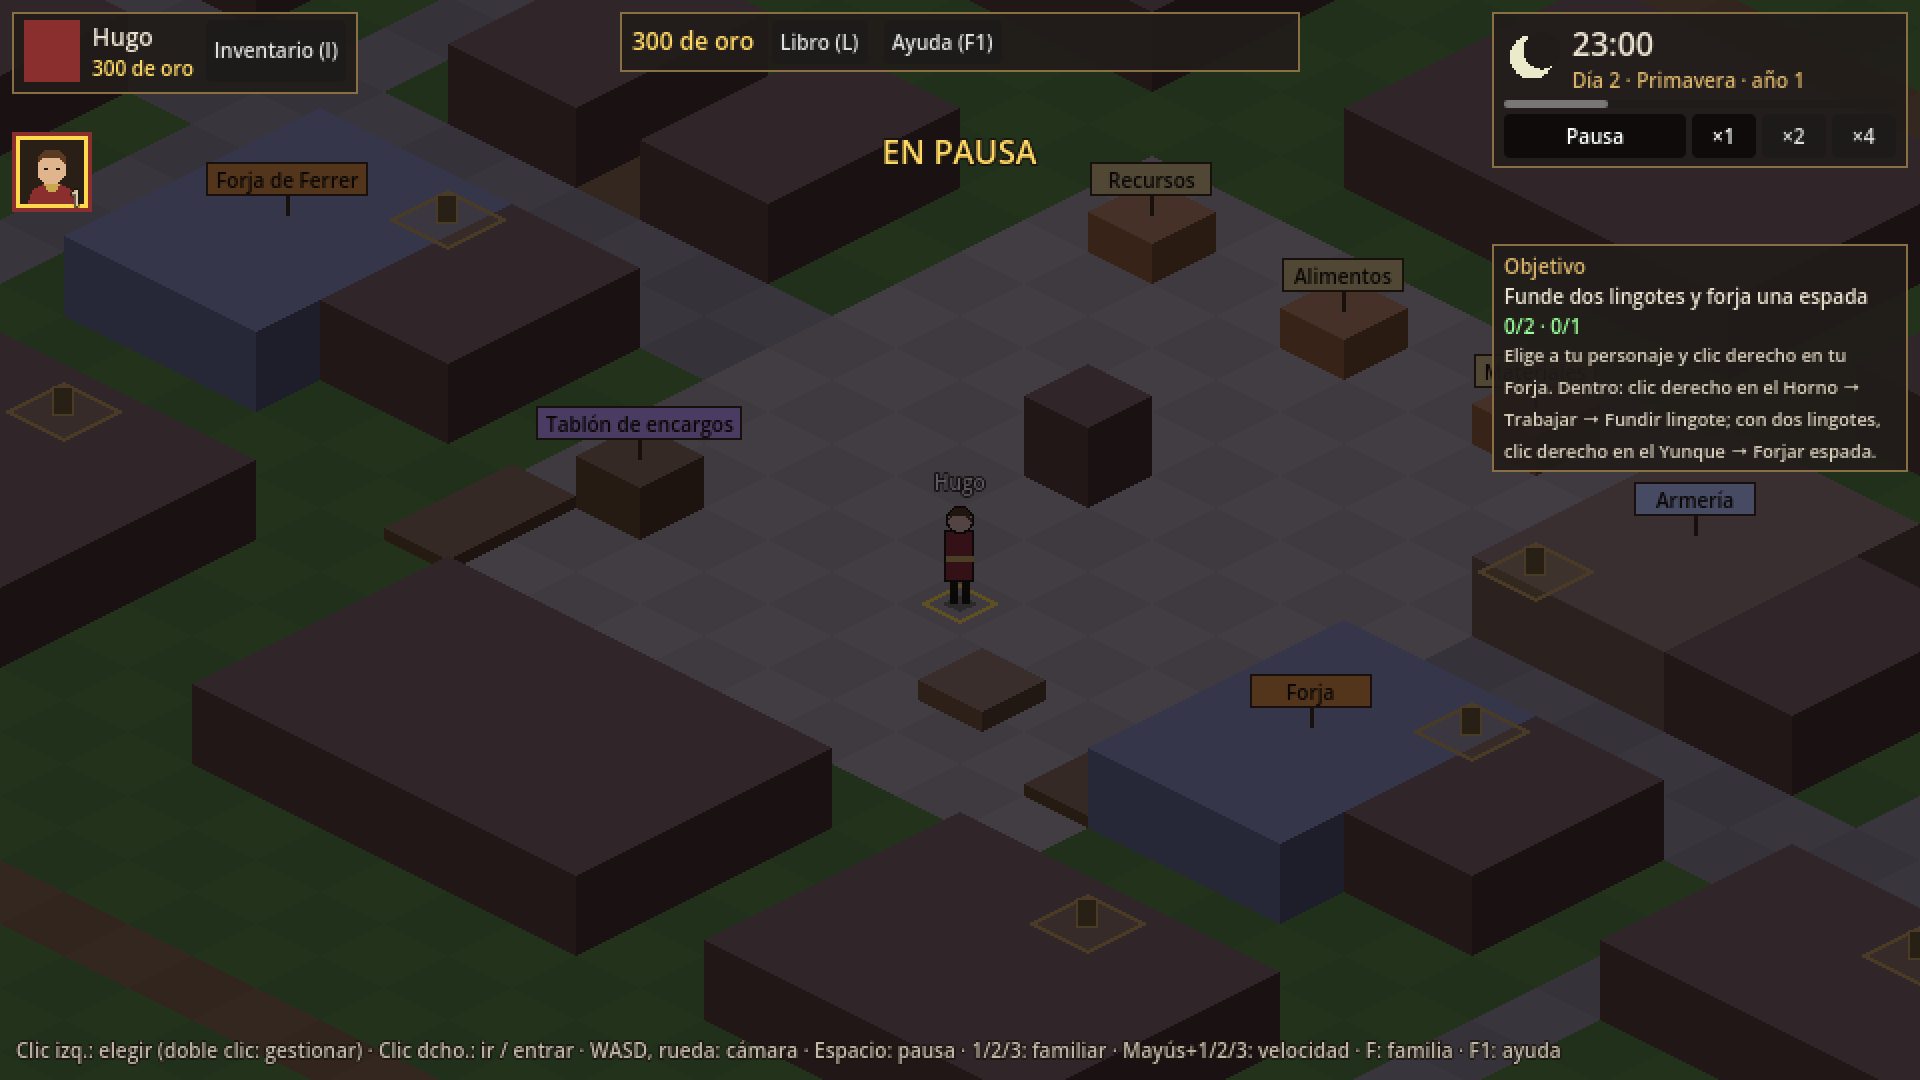
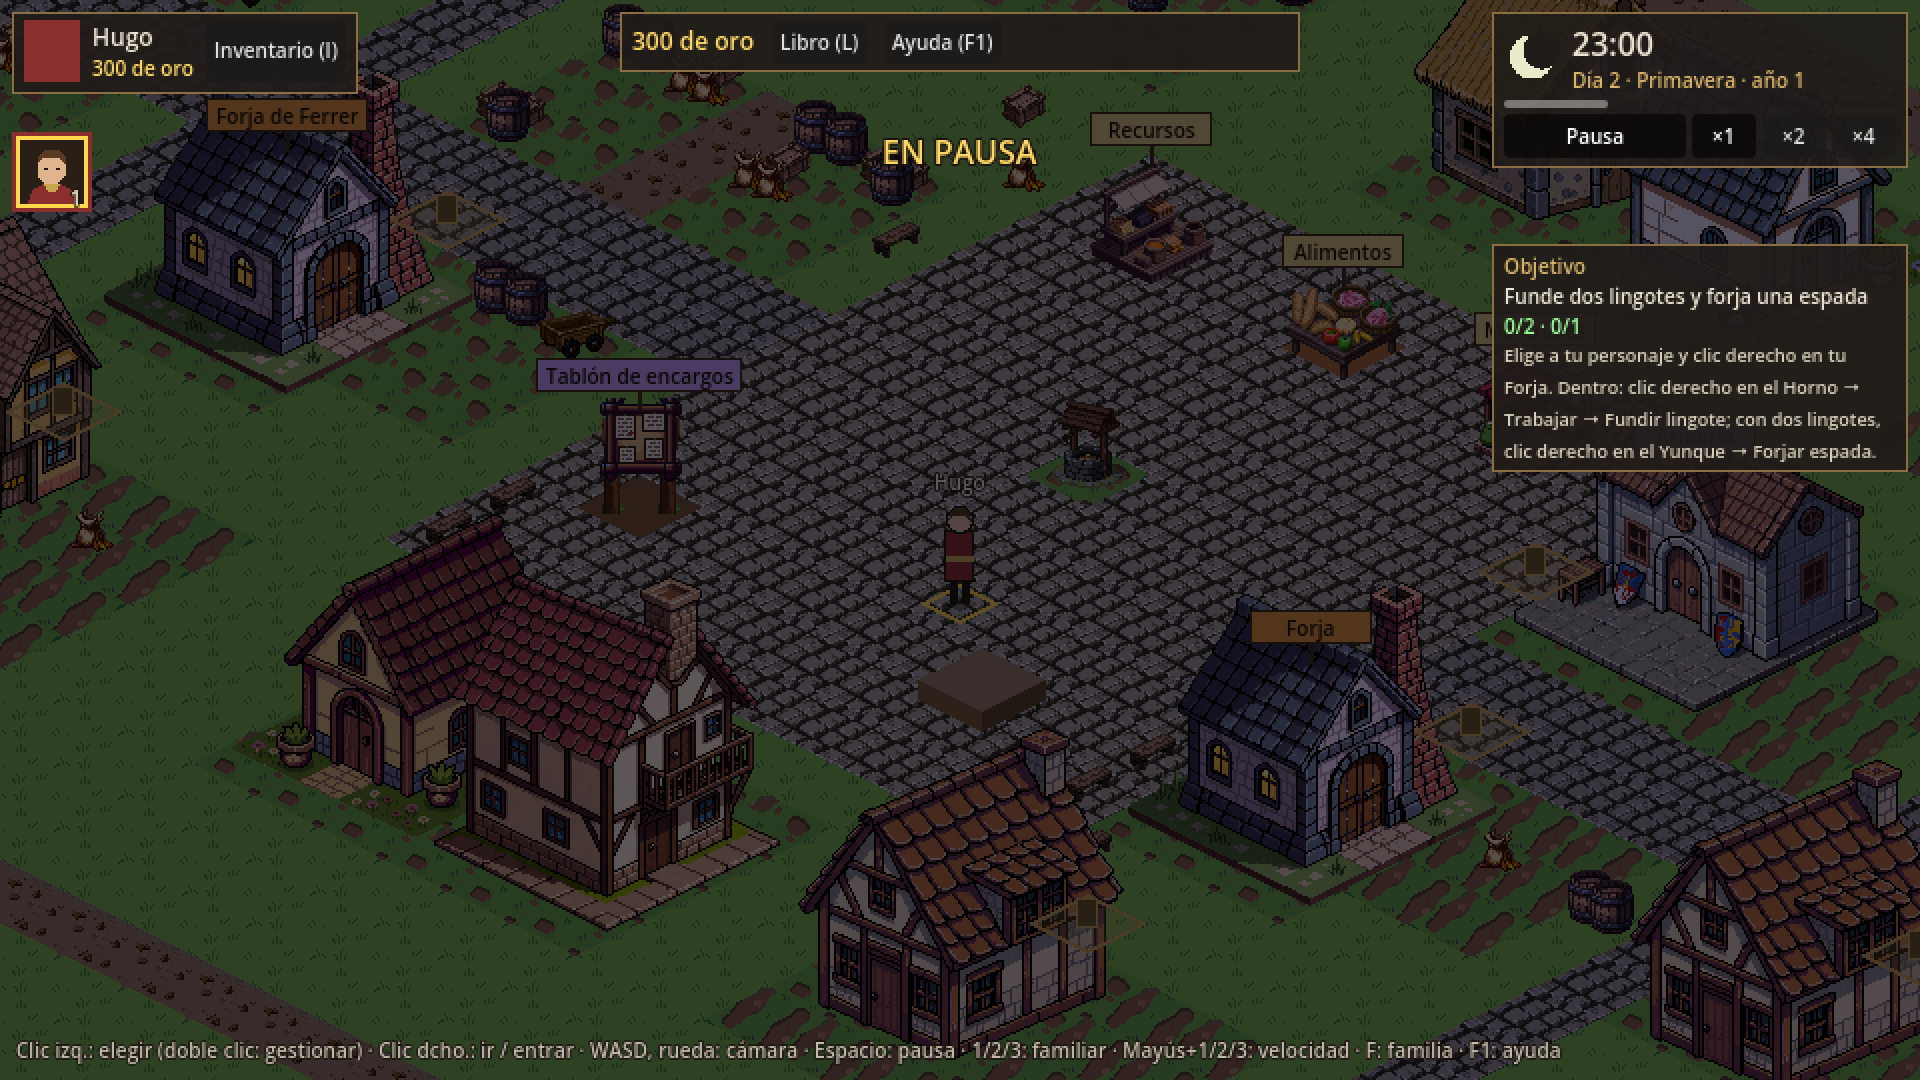
H7: balance con la ciudad tras juntar main (precio del mostrador = venta del mercado × bonus, el ladrón solo roba productos, la boda vacía la cola de quien cambia de familia, prueba counter_shop del experto) y capturas con el arte de Guild Renew

diff --git a/docs/contratos/h7_ciudad.md b/docs/contratos/h7_ciudad.md
@@ -103,8 +103,9 @@ Migración 7 → 8 (`SaveFile._step`):
   entra (`Buildings.can_enter` lo deja pasar con el encargo `town.customer`) y espera en el mostrador. Le atiende quien
   esté en el puesto `counter` (familiar) o un empleado activo con rol `counter` dentro (`Counter` le lleva al puesto).
   Tras `serve_minutes` compra **una unidad** del producto (categoría `product`) de más valor del almacén:
-  `precio = base × calidad × (1 + carisma/100 + rango + (price_multiplier − 1) + min(reputación/100 × 0,15; 0,15)) ×
-  sell_mult(emoción del cliente)`; oro con `Money.change` categoría `counter_sales` (fuente, 4.19; el vecino no paga
+  `precio = base × (1 + carisma/100 + rango + (price_multiplier − 1) + min(reputación/100 × 0,15; 0,15)) ×
+  sell_mult(emoción del cliente)`, con `base` = lo que paga el mercado ahora por esa pieza (`counter.price_base`
+  `market_sell`: calidad, demanda y proporción de venta); oro con `Money.change` categoría `counter_sales` (fuente, 4.19; el vecino no paga
   de su bolsa [provisional]). Sin quien atienda en `patience_minutes`, sin producto o cabreado > 80: se va sin comprar.
 - **`Microevents.step`**: al amanecer, por familia que juega (humana o IA con perfil) con edificios: como mucho 1 al día,
   tirada `base_chance × microevent_chance`; si sale, una ficha elegible (condiciones y enfriamiento) por peso → plan.
@@ -207,7 +208,15 @@ Motivos nuevos (`reason.*`): `not_a_townsperson`, `refuses_talk`, `already_today
 - **Regateo solo con producto** (`has_products`): sin nada que vender no hay regateo que valga.
 - **El estado de la ciudad no guarda decimales** (`break_permil` en milésimas): un float no vuelve idéntico de un
   guardado y rompía la ida y vuelta.
-- **Riesgo de balance (abierto)**: la frecuencia de clientes de 4.5.4 ([propuesta], 1 cada 1-2 h de día) con el
-  precio del mostrador (base × calidad × (1 + bonus), sin demanda) da ~300-500 de oro al día con una forja con
-  Mostrador (6 de oro y 4 de madera). Ningún bot de esta rama compra `forge_commerce_1`, así que las dianas de H3-H5 no
-  se mueven, pero `artisan_expert` (en main) sí puede: hay que pasarlo y ajustar `counter.interval_hours` o el precio.
+- **Precio del mostrador = precio de venta del mercado × (1 + bonus)** (`counter.price_base: market_sell`) [balance]: la
+  lectura literal de 4.5.4 (precio base × calidad, sin demanda ni proporción de venta) vendía al doble que la plaza y
+  una forja con Mostrador hacía 300-500 de oro al día. Medido con `artisan_expert` (no compra el Mostrador) y con la
+  prueba `BOT_VARS=counter_shop=1` (lo compra primero y pone al empleado menos hábil a atender): ver el informe del
+  merge.
+- **El ladrón solo roba productos** (categoría `product`, condición `has_products`; GDD 4.20 «el producto más
+  valioso»): robando lo de más valor del almacén se llevaba el martillo o el hierro y el experto se atascaba.
+- **La boda vacía la cola de quien cambia de familia** (`Courtship.marry`): una vecina que iba a su casa vieja veía
+  rechazada la entrada al llegar.
+- **Saludos con probabilidad** (`routine.greet.chance 0,3`, 1 al día): con cada cruce un saludo, el principio del
+  atardecer eran todo saludos.
+- **La frase la dice el vecino más cercano cuya frase no tapa el nombre del elegido** (`WorldView._pick_talker`).
